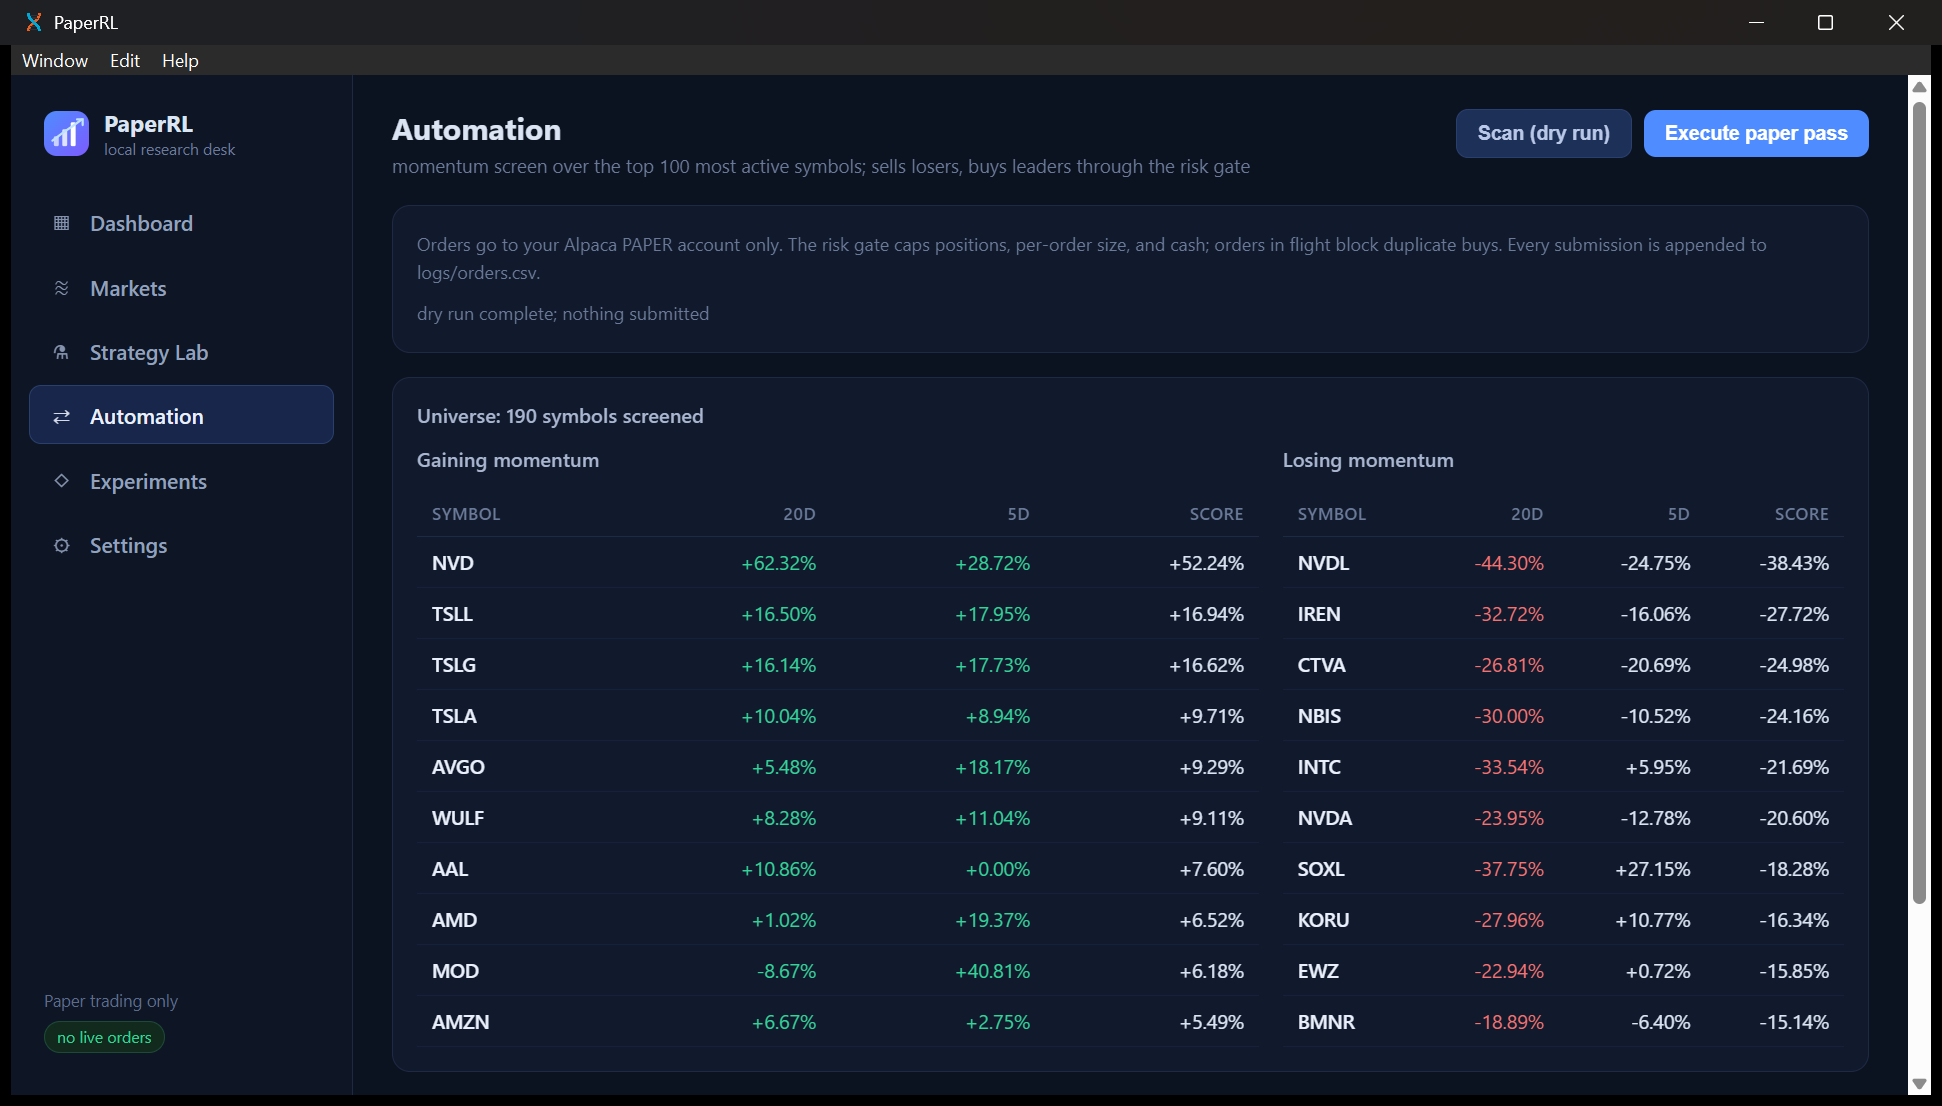
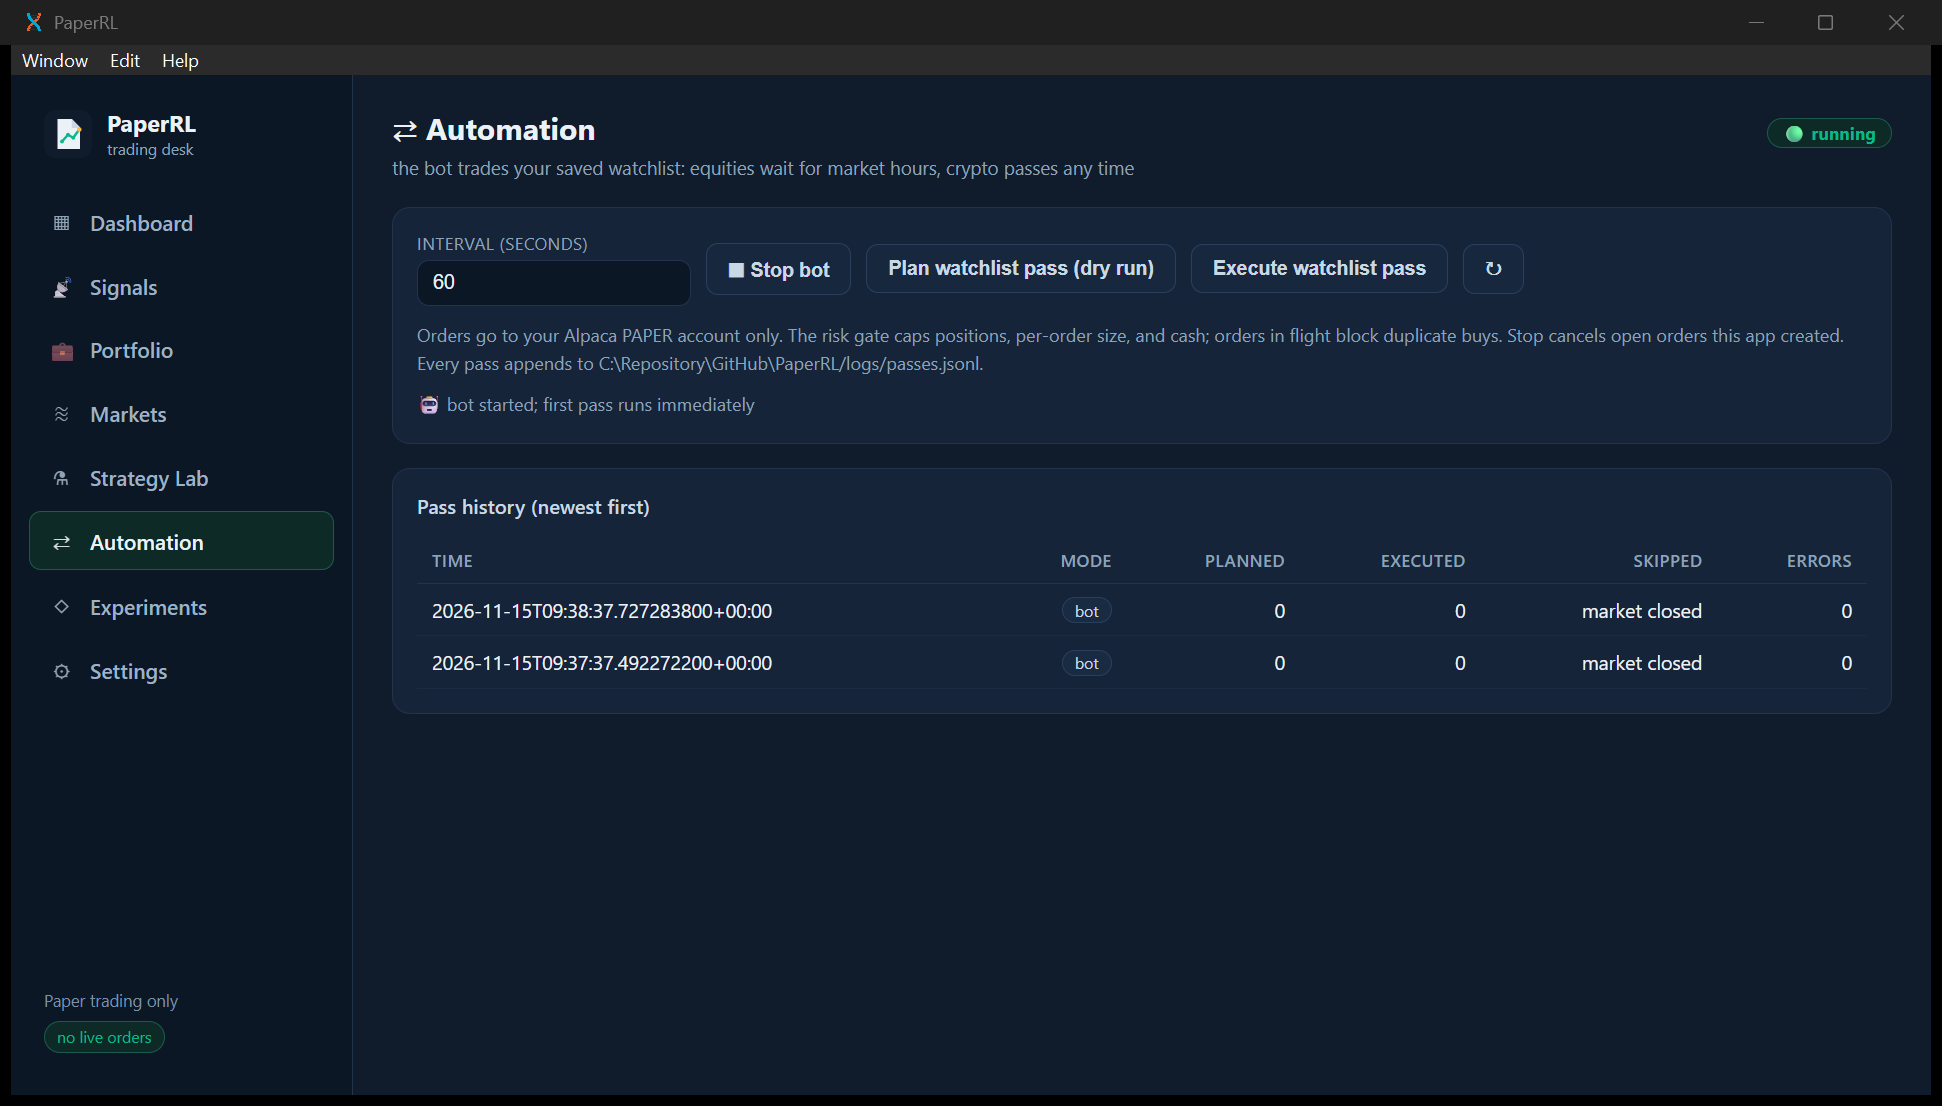
docs: trading app features, live verification, and screenshots

diff --git a/README.md b/README.md
@@ -1,22 +1,22 @@
 # PaperRL
 
-A local-first trading research platform in Rust: download market data from Alpaca, train risk-aware PPO agents on it, backtest them against classical strategies, and inspect the results. The trading engine, RL training, backtesting, storage, and CLI are all Rust; there is no Python or JavaScript in the application.
+A local-first trading app in Rust: type any tickers (stocks and crypto) and get Buy / Sell / Hold verdicts with the reasoning shown, run a paper-trading bot on a schedule from inside the app, and track the portfolio it builds. The trading engine, RL training, backtesting, storage, UI, and CLI are all Rust; there is no Python or JavaScript in the application.
 
 ## Status
 
-Phases 1 to 3 of the roadmap are built and tested (62 tests, all passing):
+Built and tested (113 tests, all passing):
 
-- Alpaca market data and paper account adapter (alpacars 0.8.0, pinned; paper API only)
-- Parquet bar storage with merge-on-write sync and schema validation
+- Alpaca adapter (alpacars 0.8.0, pinned; paper API only): account, positions with cost basis, portfolio history, fills, market clock, screener, stock and crypto bars, FX rates, buy and sell orders, and cancel-by-client-prefix
+- Parquet bar storage with merge-on-write sync and schema validation; crypto pairs cache as BTC-USD.parquet
 - Deterministic simulator: signal at close, fill at next open, fees in basis points, slippage, no leverage
 - Strategies: Buy & Hold, EMA crossover, momentum, mean reversion, volatility targeting, and a PPO policy behind one `Strategy` trait
 - Walk-forward evaluation in month-based windows with per-window and aggregate metrics
 - Risk-aware PPO on Burn 0.22 (flex CPU backend): five allocation actions (0/25/50/75/100%), regime observations (returns, volatility, volume ratio, MACD histogram, RSI, position, drawdown), reward with cost-aware growth minus excess-drawdown, turnover, and volatility penalties, seeded and reproducible, checkpoints in burnpack with JSON metadata
+- Recommendation engine (`paperrl-trade::recommend`): weighted vote over trend (price vs EMA50, EMA20 vs EMA50), 20-day momentum, MACD histogram, and RSI bands, returning Buy / Sell / Hold with a 0.5 to 1.0 confidence, human-readable reasons, and a PPO checkpoint overlay labeled with its seed
+- In-app trading bot (`paperrl-trade::spawn_bot`): trades the user's saved watchlist, skips equities while the market is closed (crypto passes any time), appends every pass to `logs/passes.jsonl`, and cancels only its own orders on stop (client order ids starting with `paperrl-`)
+- Dioxus 0.7 desktop app (`paperrl-desktop`): eight tabs covering signals, portfolio, automation, markets, lab, experiments, and settings; config and watchlist persist to `config.json`; logging goes to console and `<home>/logs/app.log`
 
-- Dioxus 0.7 desktop dashboard (`paperrl-desktop`): branded sidebar shell, live paper-account cards, SVG candlestick chart with hover OHLC, strategy comparison and walk-forward tables, a Markets browser over cached datasets, an Experiments page with training curves and one-click model backtests, and an Automation page that runs the same paper-trading pass as the CLI
-- Automated paper trading (`paperrl-trade`): momentum screen over the most active universe with liquidity filters, optional per-symbol PPO sizing, a deterministic risk gate, and Alpaca paper order submission with client order IDs, idempotent passes, and an audit log
-
-Not built yet: continuous position reconciliation and monitoring daemon, the experiment manager with redb storage, and Barter integration.
+Not built yet: continuous position reconciliation and monitoring while the app is closed, the experiment manager with redb storage, and Barter integration.
 
 ## Results
 
@@ -37,9 +37,15 @@ Seed spreads on five stocks show the variation the architecture doc asked to rec
 
 Read these numbers with the caveats they deserve. Three years of a bull-heavy sample favor Buy & Hold; the PPO walk-forward windows are not strictly out-of-sample because the agent trained on the full range; and drawdown and exposure were only recorded for Buy & Hold and PPO in this run. The full per-stock data is in `experiments/`, including `benchmark-27stocks-v2-risk-aware-ppo.csv`, `seeds-5stocks-v2.csv`, and `walkforward-27stocks-v2.csv`.
 
-## Automated paper trading
+## Trading the watchlist
 
-Two commands cover the workflow. Both require `APCA_API_KEY_ID` / `APCA_API_SECRET` and use the paper endpoint only.
+The app's bot trades what you save in the Signals tab. Equities wait for market hours (the Alpaca clock gates each pass) and crypto pairs are entered any time. Every pass appends one JSON line to `logs/passes.jsonl` with what was planned, executed, skipped, and any errors, so the Automation tab shows a full pass history. Stop cancels open orders the app created and leaves orders placed elsewhere untouched.
+
+Live verification on 2026-11-15 (a Sunday, market closed): the Signals tab analyzed `AAPL, BTC/USD, BADTICKER` and returned a Buy at 97% confidence for AAPL (with the reasoning card: price above the 50-day EMA, EMA20 over EMA50, +3.8% 20-day return, positive MACD histogram, PPO overlay), a Sell at 91% for BTC/USD through the crypto data path, and an inline error for the bad ticker. A bot started with a 60-second interval produced three history entries all marked `skipped: market closed`, and Stop returned the chip to idle. With EUR selected as base currency and the free Alpaca plan declining FX rates (HTTP 403), the app fell back to US dollars with a visible note. The portable exe launched from a directory with no data nearby and created `%USERPROFILE%\paperrl` on first run.
+
+## Automated paper trading (CLI)
+
+The CLI keeps the screener workflow. Both commands require `APCA_API_KEY_ID` / `APCA_API_SECRET` and use the paper endpoint only.
 
 ```
 # Screen the top 100 most active symbols and train this year's PPO models for the top 3 gainers
@@ -55,37 +61,46 @@ paperrl trade auto --top 100 --long 3 --execute
 paperrl trade auto --top 100 --long 3 --execute --interval 300
 ```
 
-How a pass works: it pulls the screener's most active symbols plus current movers, refreshes daily bars for anything missing or older than five days, ranks the universe by blended 20-day and 5-day momentum, sells positions whose momentum turned or dropped out of the top list, and buys the leading gainers. Liquidity filters drop names below $5 or under $2M average daily dollar volume, which keeps penny stocks and warrants out. When a `ppo-SYMBOL-42.bpk` checkpoint exists, its current target weight scales that symbol's allocation; otherwise the planner uses half of the per-position cap.
+How a pass works: it pulls the screener's most active symbols plus current movers, refreshes daily bars for anything missing or older than five days, ranks the universe by blended 20-day and 5-day momentum, sells positions whose momentum turned or dropped out of the top list, and buys the leading gainers. Liquidity filters drop names below $5 or under $2M average daily dollar volume, which keeps penny stocks and warrants out. When a checkpoint for a symbol exists, the newest one by file time scales that symbol's allocation; otherwise the planner uses half of the per-position cap.
 
 The risk gate caps position count, per-position size as a fraction of equity, per-order notional, and total spend by available cash; it never uses leverage. Symbols with open orders are treated as held, so re-running a pass cannot duplicate a buy or a sell. Every submitted order carries a `paperrl-` client order ID and is appended to `logs/orders.csv`.
 
-Live verification on 2026-11-15: a scan over a 190-symbol universe (most actives plus movers) ranked the leaders and trained three this-year models; the first automated pass submitted three paper buys of $2,000 each, all Accepted, and the account's buying power dropped by exactly $6,000 while positions stayed empty because the market was closed. A second pass immediately afterwards planned zero orders.
+Earlier verification the same day: a scan over a 190-symbol universe ranked the leaders and trained three this-year models; the first automated pass submitted three paper buys of $2,000 each, all Accepted, and the account's buying power dropped by exactly $6,000 while positions stayed empty because the market was closed. A second pass immediately afterwards planned zero orders.
 
-Known limits: leveraged single-stock ETFs (TSLL, TSLG and similar) pass the price and volume filters and can dominate momentum rankings; add an exclusion list before treating the paper results as investment evidence. Orders submitted outside market hours are queued by Alpaca for the next session.
+Known limits: leveraged single-stock ETFs (TSLL, TSLG and similar) pass the price and volume filters and can dominate momentum rankings; add an exclusion list before treating the paper results as investment evidence. Orders submitted outside market hours are queued by Alpaca for the next session. Crypto signals are rules-only today; no PPO checkpoint has been trained on crypto bars yet.
 
-## Desktop dashboard
+## Desktop app
 
-![Dashboard](screenshots/dashboard.png)
+![Signals](screenshots/signals.png)
+
+![Portfolio](screenshots/portfolio.png)
 
 ![Automation](screenshots/automation.png)
 
-![Experiments](screenshots/experiments.png)
+![Settings](screenshots/settings.png)
+
+![Dashboard](screenshots/dashboard.png)
 
 ```
 cargo run -p paperrl-desktop
 ```
 
-Five pages share the CLI's engine crates:
+Eight tabs share the engine crates:
 
-| Page | What it shows |
+| Tab | What it shows |
 |---|---|
-| Dashboard | selected dataset stats, last 120 candles with hover OHLC and a volume strip, the live paper-account card, and a strategy comparison with PPO included when a checkpoint exists |
+| Dashboard | market clock banner, the live paper-account card refreshing every 30 seconds, dataset stats, candles with hover OHLC, and a strategy comparison |
+| Signals | type any tickers (stocks and crypto), get a Buy / Sell / Hold badge with confidence, price, day and 20-day change, a "why" card listing every contributing factor, a cached-data chip, and Buy / Sell buttons with a confirm dialog that place paper orders |
+| Portfolio | holdings with avg entry, current price, market value, unrealized P&L and percent, weight per position, currency exposure (equities vs crypto), an equity curve with drawdown line over 1W / 1M / 3M / 1A, and recent fills |
 | Markets | every cached dataset with bar counts and date ranges; click to chart it |
-| Strategy Lab | editable cash, fee, and slippage; run the full comparison and six-month walk-forward aggregates |
+| Strategy Lab | editable cash, fee, and slippage with input validation; run the full comparison and six-month walk-forward aggregates |
+| Automation | bot start/stop with interval and risk limits, live state chip, pass history from `passes.jsonl`, and the manual watchlist pass (dry run or execute) |
 | Experiments | checkpoints with seed, iterations, window, final reward, training-curve sparkline, and one-click backtest against the baselines |
-| Settings | paths, credential status, and the paper-only safety model |
+| Settings | base currency (18 codes), bot interval, risk limits, data directory, credential status, and the paper-only safety model |
 
-The window launched and the account card fetched the live paper account in a smoke run; automated tests cover the data layer (dataset scanning, chart geometry, sparklines, money formatting).
+All money renders through one formatter; with a non-USD base currency it converts at the latest FX rate, and when the rate is unavailable it falls back to dollars with a visible note. Cost basis stays in USD because Alpaca settles in USD.
+
+The app resolves its data directory in this order: the `PAPERRL_HOME` environment variable, a repository checkout (a `datasets` folder beside the working directory), or `%USERPROFILE%\paperrl`. The CLI resolves paths the same way.
 
 ## Speed
 
@@ -125,14 +140,14 @@ Training and backtesting work offline from the cached Parquet datasets; only syn
 
 | Crate | What it holds |
 | --- | --- |
-| paperrl-core | Bar, Symbol, Timeframe, shared error type |
-| paperrl-alpaca | Alpaca REST adapter (data + paper account) |
-| paperrl-data | BarStore: one Parquet file per (timeframe, symbol) |
+| paperrl-core | Bar, Symbol (equities and crypto pairs), AssetClass, currency helpers, shared error type |
+| paperrl-alpaca | Alpaca REST adapter: data, screener, paper account, portfolio history, fills, clock, FX, crypto bars, orders on both sides |
+| paperrl-data | BarStore: one Parquet file per (timeframe, symbol); shared data-directory resolution |
 | paperrl-sim | Simulator, Portfolio accounting, strategies, walk-forward |
 | paperrl-rl | Feature engine, TradingEnv, and the PPO agent |
 | paperrl-cli | The `paperrl` binary |
-| paperrl-trade | Momentum screen, risk gate, paper executor |
-| paperrl-desktop | Dioxus dashboard |
+| paperrl-trade | Recommendation engine, momentum screen, risk gate, watchlist bot scheduler, app config |
+| paperrl-desktop | Dioxus trading app |
 
 Datasets land in `datasets/`, model checkpoints and their JSON metadata in `models/`. Both are gitignored.
 
